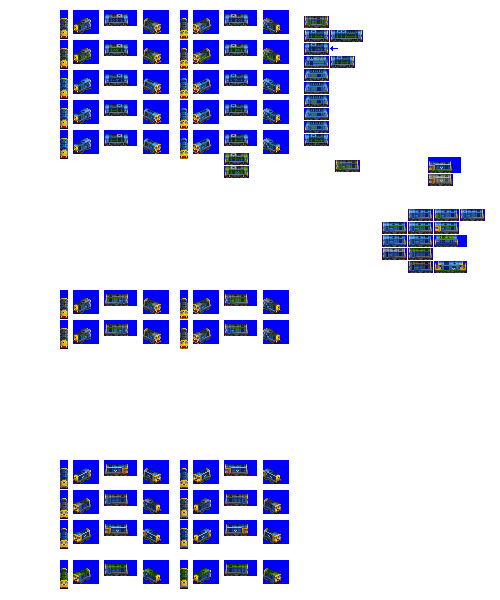
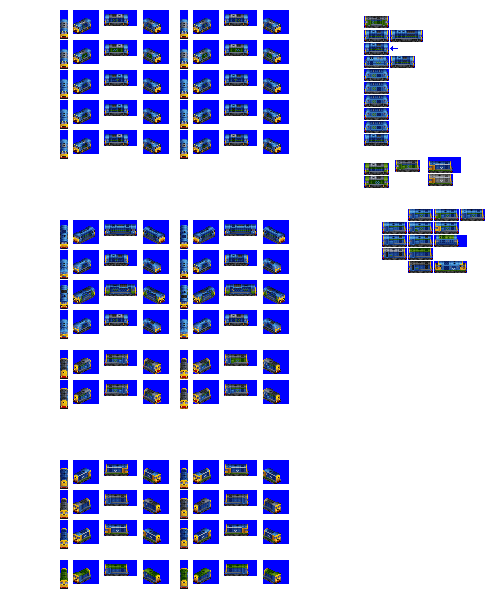
Change: sprites complete for Wildfire

diff --git a/src/vehicles/pony/withershins.py b/src/vehicles/pony/withershins.py
@@ -17,10 +17,10 @@ def main(**kwargs):
         gen=4,
         fixed_run_cost_points=118,  # minor run cost bonus as default algorithm makes run cost too high
         # note that livery names are metadata only and can repeat for different spriterows
-        liveries=["VANILLA", "BANGER_BLUE"],
+        liveries=["VANILLA"],
         #liveries=["VANILLA", "BANGER_BLUE", "SWOOSH", "RAILFREIGHT_RED_STRIPE"],
-        decor_spriterow_num=4,
-        sprites_complete=False,
+        decor_spriterow_num=2,
+        sprites_complete=True,
     )
 
     model_def.add_unit_def(

diff --git a/src/vehicles/pony/wildfire.py b/src/vehicles/pony/wildfire.py
@@ -20,7 +20,7 @@ def main(**kwargs):
         intro_year_offset=7,  # introduce later than gen epoch by design
         # note that livery names are metadata only and can repeat for different spriterows
         liveries=["VANILLA", "SWOOSH", "BANGER_BLUE", "VANILLA", "INDUSTRIAL_YELLOW"],
-        sprites_complete=False,
+        sprites_complete=True,
     )
 
     model_def.add_unit_def(
